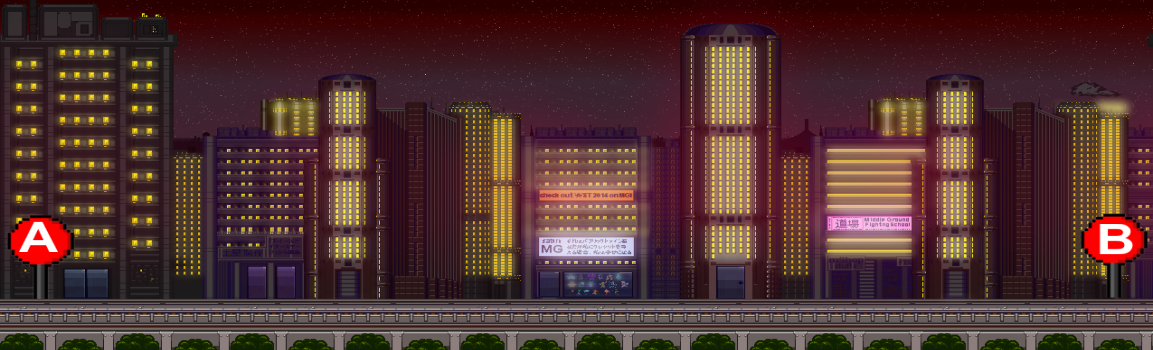
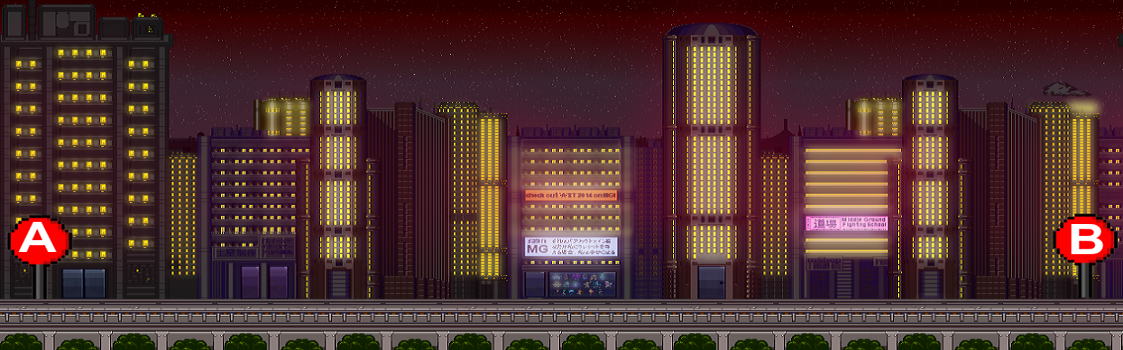
animando o trem.

diff --git a/src/interfaceGrafica/QuadroTrem.java b/src/interfaceGrafica/QuadroTrem.java
@@ -11,12 +11,51 @@ import javax.swing.JPanel;
 
 public class QuadroTrem extends JLayeredPane{
 	
-	static Image trem = new ImageIcon("train-sprite.png").getImage();
+	static Image trem = new ImageIcon("./sprite_train/train1_indo.png").getImage();
 	static Image bgTrem = new ImageIcon("city.png").getImage();
 	public static CaixasBar progressCaixas = new CaixasBar();
 	
 	static int x = 0;
 	static int xVelocidade = 1;
+	int indo = 0;
+	boolean flag = false;
+	
+	void TrainAnimationIndo(){
+		if (indo == 0) {
+			trem = new ImageIcon("./sprite_train/train1_indo.png").getImage();
+			indo++;
+		}else if (indo == 1) {
+			trem = new ImageIcon("./sprite_train/train2_indo.png").getImage();
+			indo++;
+		}else if (indo == 2) {
+			trem = new ImageIcon("./sprite_train/train3_indo.png").getImage();
+			indo++;
+		}else {
+			trem = new ImageIcon("./sprite_train/train4_indo.png").getImage();
+			indo = 0;
+		}
+	}
+	
+	void TrainAnimationVoltando(){
+		if (indo == 0) {
+			trem = new ImageIcon("./sprite_train/train1_voltando.png").getImage();
+			indo++;
+		}else if (indo == 1) {
+			trem = new ImageIcon("./sprite_train/train2_voltando.png").getImage();
+			indo++;
+		}else if (indo == 2) {
+			trem = new ImageIcon("./sprite_train/train3_voltando.png").getImage();
+			indo++;
+		}else {
+			trem = new ImageIcon("./sprite_train/train4_voltando.png").getImage();
+			indo = 0;
+		}
+	}
+	
+	void TrainAnimation(){
+		if (flag == false) TrainAnimationIndo();
+		else TrainAnimationVoltando();
+	}
 	
 	QuadroTrem(){
 		this.setLayout(new BorderLayout());
@@ -29,17 +68,19 @@ public class QuadroTrem extends JLayeredPane{
 		super.paint(g);
 		
 		Graphics2D g2D = (Graphics2D) g;
-		
+		TrainAnimation();
 		g2D.drawImage(bgTrem, 0, -20, null);
 		g2D.drawImage(trem, x, 210, null);
 	}
 	
-	public static void cycle() {
+	public void cycle() {
 		if(x>=PainelAnimaQuadro.PAINEL_LARGURA - trem.getWidth(null)) {
-			trem = new ImageIcon("train-sprite2.png").getImage();
+			flag = true;
+			//trem = new ImageIcon("./sprite_train/train1_voltando.png").getImage();
 			xVelocidade = xVelocidade * -1;
 		}else if(x<0) {
-			trem = new ImageIcon("train-sprite.png").getImage();
+			flag = false;
+			//trem = new ImageIcon("./sprite_train/train1_indo.png").getImage();
 			xVelocidade = xVelocidade * -1;
 		}
 		x += xVelocidade;

diff --git a/src/interfaceGrafica/PainelEmpacotador.java b/src/interfaceGrafica/PainelEmpacotador.java
@@ -37,20 +37,20 @@ public class PainelEmpacotador extends JPanel implements ActionListener {
 		this.add(new LabelTexto("Nome | Tempo de Empacotamento:"));
 		this.add(En[0] = new CheckEmpacotador("empacotador_1"));
 		this.add(En[1] = new CheckEmpacotador("empacotador_2"));
-		this.add(En[2] = new CheckEmpacotador("empacotador_3"));
-		this.add(En[3] = new CheckEmpacotador("empacotador_4"));
-		this.add(En[4] = new CheckEmpacotador("empacotador_5"));
-		this.add(En[5] = new CheckEmpacotador("empacotador_6"));
-		this.add(En[6] = new CheckEmpacotador("empacotador_7"));
-		this.add(En[7] = new CheckEmpacotador("empacotador_8"));
-		this.add(En[8] = new CheckEmpacotador("empacotador_9"));
-		this.add(En[9] = new CheckEmpacotador("empacotador_10"));
+		//this.add(En[2] = new CheckEmpacotador("empacotador_3"));
+		//this.add(En[3] = new CheckEmpacotador("empacotador_4"));
+		//this.add(En[4] = new CheckEmpacotador("empacotador_5"));
+		//this.add(En[5] = new CheckEmpacotador("empacotador_6"));
+		//this.add(En[6] = new CheckEmpacotador("empacotador_7"));
+		//this.add(En[7] = new CheckEmpacotador("empacotador_8"));
+		//this.add(En[8] = new CheckEmpacotador("empacotador_9"));
+		//this.add(En[9] = new CheckEmpacotador("empacotador_10"));
 		this.add(empacButton);
 	}
 	
 	public void actionPerformed(ActionEvent e) {
 		if(e.getSource()==empacButton){
-			for(int i = 0; i < 10; i++) {
+			for(int i = 0; i < 2; i++) {
 				if(En[i].empacCheck.isSelected()) {
 					if(Integer.parseInt(En[i].empacTime.getText()) == 0) {
 						PainelTrem.erro.setVisible(true);
